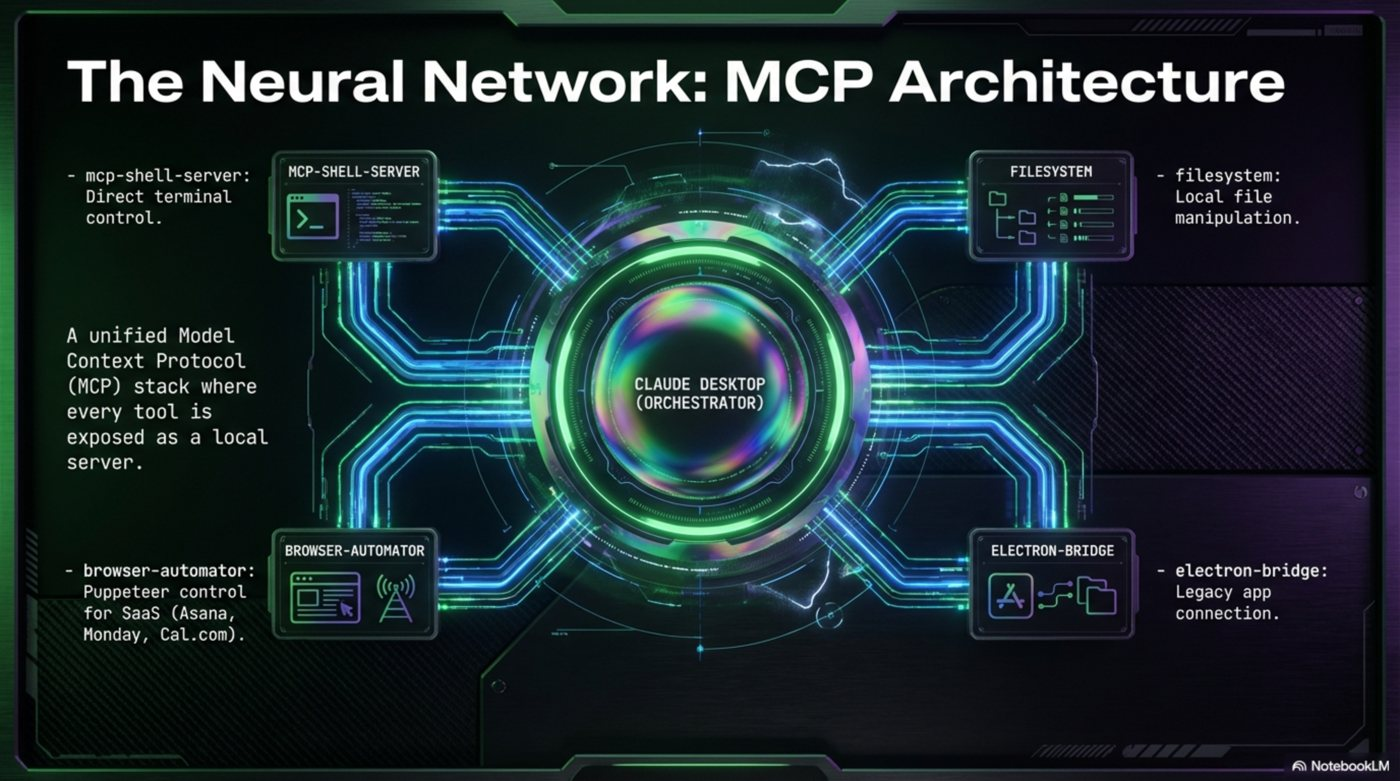
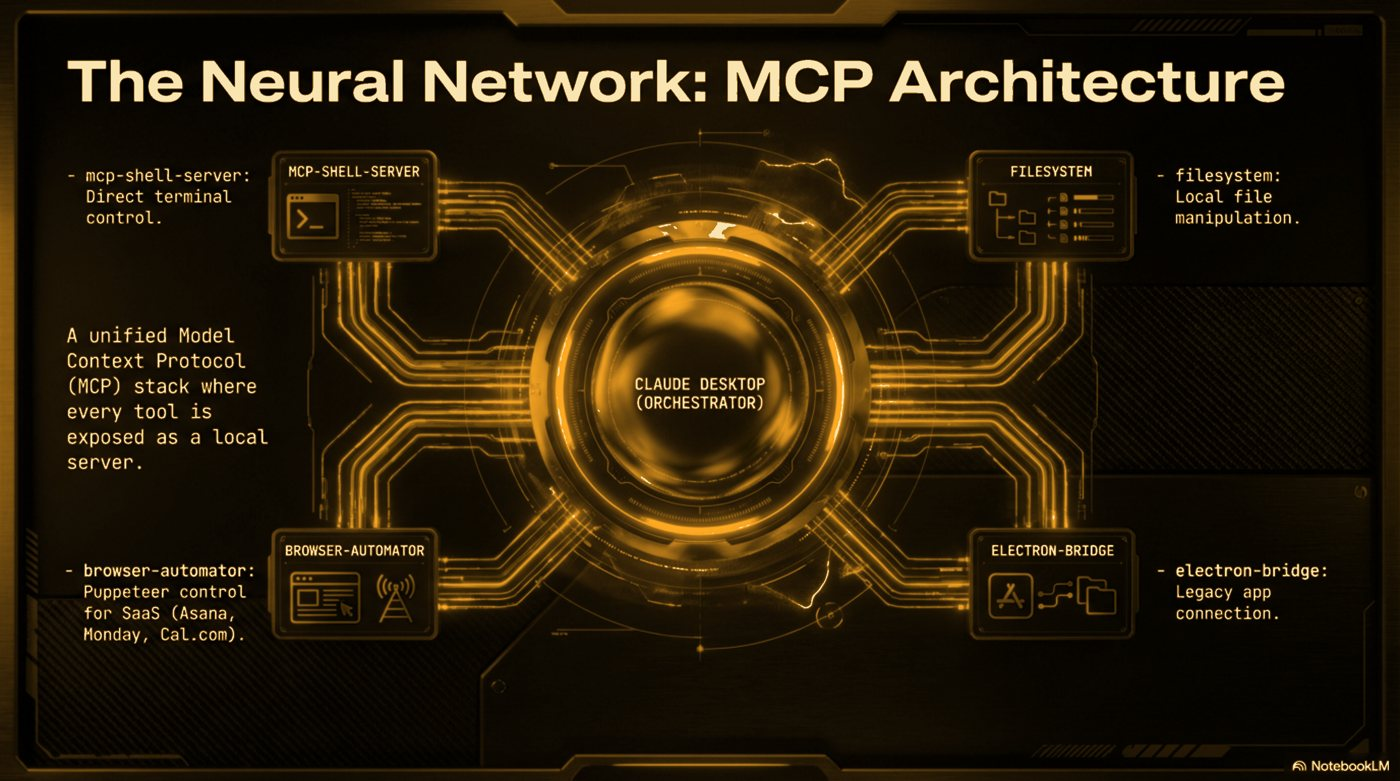
Lexicon manifesto: gold on-brand recolor + animated (light-sweep, reveal, glow)
Recolored the 15 slides green->gold (faithful pixel transform, all content preserved),
gold page chrome, CSS shimmer/reveal/glow animation.

diff --git a/index.html b/index.html
@@ -13,63 +13,84 @@
 <link href="https://fonts.googleapis.com/css2?family=Orbitron:wght@500;700;900&family=Share+Tech+Mono&display=swap" rel="stylesheet">
 <style>
   :root{
-    --bg:#04060a; --panel:#080d12; --line:#11321f;
-    --green:#27ff9e; --green-dim:#1f8f63; --ink:#cfe9dd; --mute:#5f7d70;
+    --bg:#070401; --panel:#0d0803; --line:#3a2710;
+    --gold:#EB9943; --gold-light:#F5D09C; --gold-deep:#C96E2E; --gold-dim:#9E5C28;
+    --ink:#ecd9bd; --mute:#9a795a;
   }
   *{box-sizing:border-box}
   html{scroll-behavior:smooth}
   body{margin:0;background:var(--bg);color:var(--ink);
     font-family:"Share Tech Mono",ui-monospace,Menlo,Consolas,monospace;
-    background-image:radial-gradient(circle at 50% -10%,rgba(39,255,158,.10),transparent 60%),
-      linear-gradient(rgba(39,255,158,.03) 1px,transparent 1px),
-      linear-gradient(90deg,rgba(39,255,158,.03) 1px,transparent 1px);
+    background-image:radial-gradient(circle at 50% -10%,rgba(235,153,67,.16),transparent 60%),
+      linear-gradient(rgba(235,153,67,.035) 1px,transparent 1px),
+      linear-gradient(90deg,rgba(235,153,67,.035) 1px,transparent 1px);
     background-size:auto,42px 42px,42px 42px;}
   .wrap{max-width:1120px;margin:0 auto;padding:0 20px}
 
-  header{padding:64px 20px 40px;text-align:center;border-bottom:1px solid var(--line)}
-  .kicker{font-size:12px;letter-spacing:.42em;color:var(--green-dim);text-transform:uppercase}
+  header{padding:64px 20px 40px;text-align:center;border-bottom:1px solid var(--line);position:relative;overflow:hidden}
+  .kicker{font-size:12px;letter-spacing:.42em;color:var(--gold-dim);text-transform:uppercase}
   h1{font-family:"Orbitron",sans-serif;font-weight:900;letter-spacing:.06em;margin:14px 0 8px;
-    font-size:clamp(28px,6vw,62px);line-height:1.02;color:#eafff5;
-    text-shadow:0 0 18px rgba(39,255,158,.35),0 0 2px rgba(39,255,158,.8)}
-  h1 .lex{color:var(--green)}
+    font-size:clamp(28px,6vw,62px);line-height:1.02;
+    background:linear-gradient(100deg,#FDF0D5,#F5D09C,#EB9943,#C96E2E,#F5C58A,#FDF0D5);
+    background-size:300% 100%;-webkit-background-clip:text;background-clip:text;color:transparent;
+    -webkit-text-fill-color:transparent;filter:drop-shadow(0 2px 14px rgba(235,153,67,.4));
+    animation:shimmer 7s linear infinite}
+  @keyframes shimmer{to{background-position:300% 0}}
   .sub{color:var(--mute);font-size:clamp(13px,2.2vw,17px);letter-spacing:.14em;margin:0 auto;max-width:680px}
   .meta{margin-top:22px;display:inline-flex;gap:10px;align-items:center;flex-wrap:wrap;justify-content:center;
-    font-size:11px;letter-spacing:.22em;color:var(--green-dim);text-transform:uppercase}
-  .chip{border:1px solid var(--line);border-radius:999px;padding:6px 14px;background:rgba(39,255,158,.04)}
-  .dot{width:8px;height:8px;border-radius:50%;background:var(--green);box-shadow:0 0 10px var(--green);
+    font-size:11px;letter-spacing:.22em;color:var(--gold-dim);text-transform:uppercase}
+  .chip{border:1px solid var(--line);border-radius:999px;padding:6px 14px;background:rgba(235,153,67,.05)}
+  .dot{width:8px;height:8px;border-radius:50%;background:var(--gold);box-shadow:0 0 10px var(--gold);
     display:inline-block;animation:pulse 2.4s ease-in-out infinite;vertical-align:middle;margin-right:6px}
-  @keyframes pulse{0%,100%{opacity:1}50%{opacity:.3}}
+  @keyframes pulse{0%,100%{opacity:1}50%{opacity:.25}}
 
   .deck{padding:46px 0 30px;display:flex;flex-direction:column;gap:30px}
   figure{margin:0;position:relative;border:1px solid var(--line);border-radius:12px;overflow:hidden;
-    background:var(--panel);box-shadow:0 0 0 1px rgba(0,0,0,.4),0 24px 60px -28px rgba(39,255,158,.25);
-    opacity:0;transform:translateY(22px);transition:opacity .7s ease,transform .7s ease}
+    background:var(--panel);
+    box-shadow:0 0 0 1px rgba(0,0,0,.5),0 24px 60px -28px rgba(235,153,67,.4);
+    opacity:0;transform:translateY(26px) scale(.985);
+    transition:opacity .8s cubic-bezier(.2,.7,.2,1),transform .8s cubic-bezier(.2,.7,.2,1);
+    animation:glow 5.5s ease-in-out infinite}
+  @keyframes glow{0%,100%{box-shadow:0 0 0 1px rgba(0,0,0,.5),0 24px 60px -30px rgba(235,153,67,.30)}
+                  50%{box-shadow:0 0 0 1px rgba(235,153,67,.25),0 24px 70px -26px rgba(235,153,67,.55)}}
   figure.in{opacity:1;transform:none}
   figure img{width:100%;height:auto;display:block}
-  figure figcaption{position:absolute;top:10px;left:12px;font-size:11px;letter-spacing:.2em;
-    color:var(--green);background:rgba(4,6,10,.7);border:1px solid var(--line);
+  /* moving light sweep across the gold metal */
+  figure::after{content:"";position:absolute;inset:0;pointer-events:none;mix-blend-mode:soft-light;
+    background:linear-gradient(105deg,transparent 32%,rgba(255,243,214,.45) 48%,rgba(255,243,214,.10) 54%,transparent 70%);
+    transform:translateX(-120%);animation:sweep 7s ease-in-out infinite;animation-delay:var(--d,0s)}
+  @keyframes sweep{0%{transform:translateX(-120%)}58%,100%{transform:translateX(120%)}}
+  figure figcaption{position:absolute;top:10px;left:12px;z-index:2;font-size:11px;letter-spacing:.2em;
+    color:var(--gold-light);background:rgba(7,4,1,.72);border:1px solid var(--line);
     padding:3px 9px;border-radius:6px;backdrop-filter:blur(4px)}
+  @media (prefers-reduced-motion:reduce){
+    h1,.dot,figure,figure::after{animation:none!important}
+    figure{opacity:1;transform:none}
+  }
 
   .note{max-width:760px;margin:6px auto 0;color:var(--mute);font-size:12.5px;letter-spacing:.06em;
     text-align:center;line-height:1.7}
 
   footer{border-top:1px solid var(--line);margin-top:30px;padding:46px 20px 70px;text-align:center}
   .brand{font-family:"Orbitron",sans-serif;font-weight:900;font-size:clamp(26px,5vw,44px);letter-spacing:.12em;
-    color:#eafff5;text-shadow:0 0 16px rgba(39,255,158,.4)}
-  .brand b{color:var(--green)}
+    background:linear-gradient(100deg,#FDF0D5,#EB9943,#C96E2E,#F5C58A);background-size:280% 100%;
+    -webkit-background-clip:text;background-clip:text;color:transparent;-webkit-text-fill-color:transparent;
+    animation:shimmer 7s linear infinite}
   .tag{color:var(--mute);letter-spacing:.18em;margin-top:8px;font-size:13px}
   .cta{display:inline-block;margin-top:26px;font-family:"Orbitron",sans-serif;font-weight:700;
-    letter-spacing:.18em;font-size:13px;color:#04060a;background:var(--green);text-decoration:none;
-    padding:13px 26px;border-radius:8px;box-shadow:0 0 22px rgba(39,255,158,.5);text-transform:uppercase}
-  .fmeta{margin-top:24px;color:var(--green-dim);font-size:11px;letter-spacing:.24em;text-transform:uppercase}
-  a{color:var(--green)}
+    letter-spacing:.18em;font-size:13px;color:#1a0e02;text-decoration:none;padding:13px 26px;border-radius:8px;
+    background:linear-gradient(135deg,#F5D09C,#EB9943 55%,#C96E2E);
+    box-shadow:0 0 22px rgba(235,153,67,.55),inset 0 1px 0 rgba(255,244,210,.6);text-transform:uppercase}
+  .cta:hover{filter:brightness(1.08)}
+  .fmeta{margin-top:24px;color:var(--gold-dim);font-size:11px;letter-spacing:.24em;text-transform:uppercase}
+  a{color:var(--gold)}
 </style>
 </head>
 <body>
   <header>
     <div class="wrap">
       <div class="kicker">The Qi-Lord Zero-Friction Enterprise Automation Stack</div>
-      <h1>SELF&#8209;EXECUTING&nbsp;<span class="lex">LEXICON</span></h1>
+      <h1>SELF&#8209;EXECUTING&nbsp;LEXICON</h1>
       <p class="sub">A live manifesto of the system — capture, brain, voice, memory, and zero-touch operations — that runs the executive without the executive running it.</p>
       <div class="meta">
         <span class="chip"><span class="dot"></span>System Online</span>
@@ -85,7 +106,7 @@
   </main>
 
   <footer>
-    <div class="brand">SEL<b>SCORP</b></div>
+    <div class="brand">SELSCORP</div>
     <div class="tag">Architecting the Future of Automation</div>
     <a class="cta" href="mailto:admin@selfexec.com">Initialize the System →</a>
     <div class="fmeta">Contact: East Allen · admin@selfexec.com · Status: Online</div>
@@ -96,6 +117,7 @@
   for(var i=1;i<=15;i++){
     var n=(i<10?'0':'')+i;
     var fig=document.createElement('figure');
+    fig.style.setProperty('--d',(i*0.5)+'s');
     fig.innerHTML='<figcaption>'+n+' / 15</figcaption>'+
       '<img loading="lazy" alt="Self-Executing Lexicon — page '+n+'" src="pages/p'+n+'.jpg">';
     deck.appendChild(fig);
